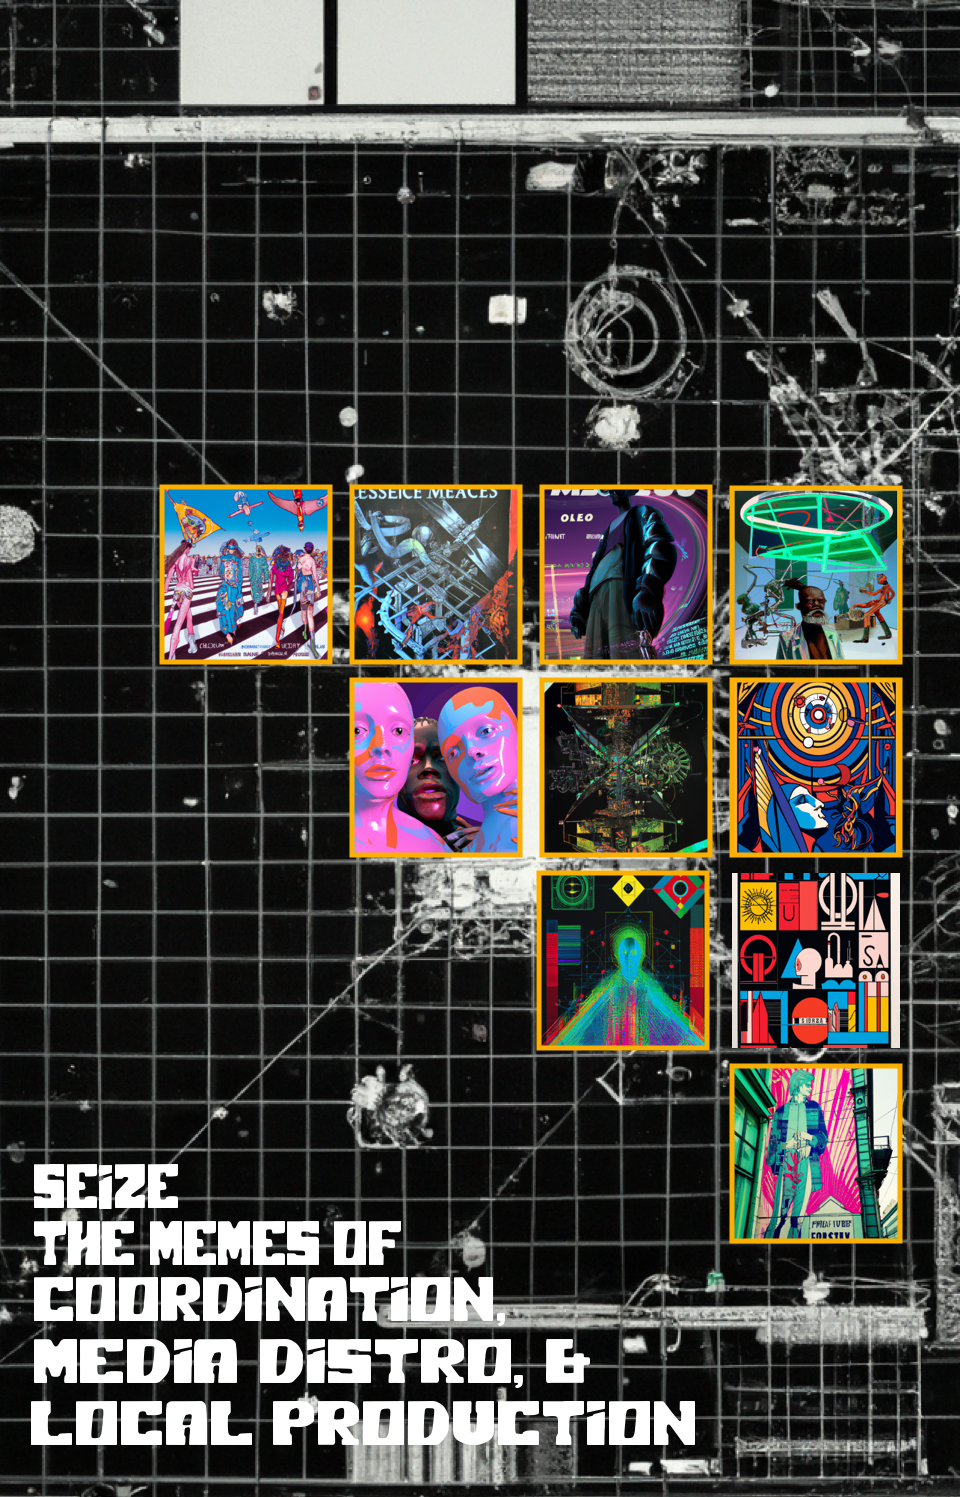
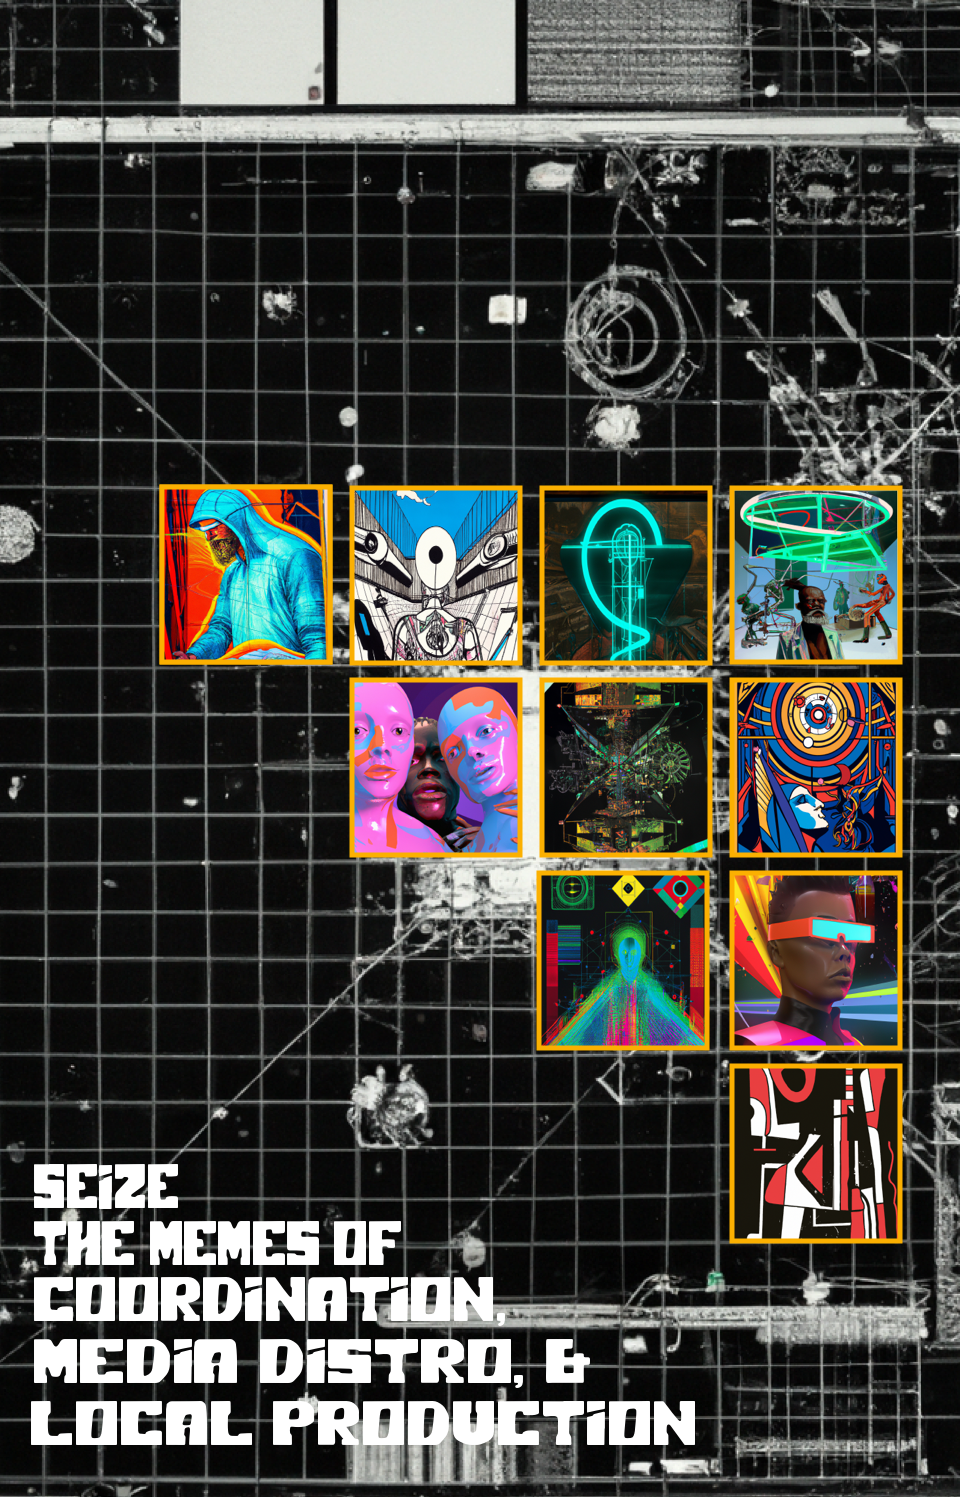
fix changes

Changed region(s): [[0.1562, 0.3073, 0.75, 0.4609], [0.75, 0.5838, 0.9375, 0.8297]]

diff --git a/src/components/magazines/issue-14/Page6768 copy.js b/src/components/magazines/issue-14/Page6768 copy.js
@@ -3,15 +3,15 @@ import Image from 'next/image';
 import { DIGIFIZZY_S3 } from '@constants/urls';
 import styles from './page2930.module.scss';
 
-const Page5960 = () => (
+const Page6768 = () => (
   <div className={styles.wrapper}>
     <div className={styles.imageBackground}>
-      <Image src={`${DIGIFIZZY_S3}/14/images/Artboard 58.png`} width={960} height={1497} />
+      <Image src={`${DIGIFIZZY_S3}/14/images/Artboard 66.png`} width={960} height={1497} />
     </div>
     <div className={styles.imageBackground2}>
-      <Image src={`${DIGIFIZZY_S3}/14/images/Artboard 59.png`} width={960} height={1497} />
+      <Image src={`${DIGIFIZZY_S3}/14/images/Artboard 67.png`} width={960} height={1497} />
     </div>
   </div>
 );
 
-export default Page5960;
+export default Page6768;

diff --git a/src/components/magazines/issue-14/Page4748.js b/src/components/magazines/issue-14/Page4748.js
@@ -6,10 +6,10 @@ import styles from './page2930.module.scss';
 const Page4748 = () => (
   <div className={styles.wrapper}>
     <div className={styles.imageBackground}>
-      <Image src={`${DIGIFIZZY_S3}/14/images/Artboard 47.png`} width={960} height={1497} />
+      <Image src={`${DIGIFIZZY_S3}/14/images/Artboard 45.png`} width={960} height={1497} />
     </div>
     <div className={styles.imageBackground2}>
-      <Image src={`${DIGIFIZZY_S3}/14/images/Artboard 48.png`} width={960} height={1497} />
+      <Image src={`${DIGIFIZZY_S3}/14/images/ Artboard 46.png`} width={960} height={1497} />
     </div>
   </div>
 );

diff --git a/src/components/magazines/issue-14/Page3940.js b/src/components/magazines/issue-14/Page3940.js
@@ -6,10 +6,10 @@ import styles from './page2930.module.scss';
 const Page3940 = () => (
   <div className={styles.wrapper}>
     <div className={styles.imageBackground}>
-      <Image src={`${DIGIFIZZY_S3}/14/images/Artboard 39.png`} width={960} height={1497} />
+      <Image src={`${DIGIFIZZY_S3}/14/images/Artboard 38.png`} width={960} height={1497} />
     </div>
     <div className={styles.imageBackground2}>
-      <Image src={`${DIGIFIZZY_S3}/14/images/Artboard 40.png`} width={960} height={1497} />
+      <Image src={`${DIGIFIZZY_S3}/14/images/Artboard 39.png`} width={960} height={1497} />
     </div>
   </div>
 );

diff --git a/src/components/magazines/issue-14/Page4142.js b/src/components/magazines/issue-14/Page4142.js
@@ -6,10 +6,10 @@ import styles from './page2930.module.scss';
 const Page4142 = () => (
   <div className={styles.wrapper}>
     <div className={styles.imageBackground}>
-      <Image src={`${DIGIFIZZY_S3}/14/images/Artboard 41.png`} width={960} height={1497} />
+      <Image src={`${DIGIFIZZY_S3}/14/images/Artboard 40.png`} width={960} height={1497} />
     </div>
     <div className={styles.imageBackground2}>
-      <Image src={`${DIGIFIZZY_S3}/14/images/Artboard 42.png`} width={960} height={1497} />
+      <Image src={`${DIGIFIZZY_S3}/14/images/Artboard 41.png`} width={960} height={1497} />
     </div>
   </div>
 );

diff --git a/src/components/magazines/issue-14/Page4344.js b/src/components/magazines/issue-14/Page4344.js
@@ -6,10 +6,10 @@ import styles from './page2930.module.scss';
 const Page4344 = () => (
   <div className={styles.wrapper}>
     <div className={styles.imageBackground}>
-      <Image src={`${DIGIFIZZY_S3}/14/images/Artboard 43.png`} width={960} height={1497} />
+      <Image src={`${DIGIFIZZY_S3}/14/images/Artboard 42.png`} width={960} height={1497} />
     </div>
     <div className={styles.imageBackground2}>
-      <Image src={`${DIGIFIZZY_S3}/14/images/Artboard 44.png`} width={960} height={1497} />
+      <Image src={`${DIGIFIZZY_S3}/14/images/Artboard 43.png`} width={960} height={1497} />
     </div>
   </div>
 );

diff --git a/src/components/magazines/issue-14/Page4546.js b/src/components/magazines/issue-14/Page4546.js
@@ -6,10 +6,10 @@ import styles from './page2930.module.scss';
 const Page4546 = () => (
   <div className={styles.wrapper}>
     <div className={styles.imageBackground}>
-      <Image src={`${DIGIFIZZY_S3}/14/images/Artboard 45.png`} width={960} height={1497} />
+      <Image src={`${DIGIFIZZY_S3}/14/images/Artboard 44.png`} width={960} height={1497} />
     </div>
     <div className={styles.imageBackground2}>
-      <Image src={`${DIGIFIZZY_S3}/14/images/Artboard 46.png`} width={960} height={1497} />
+      <Image src={`${DIGIFIZZY_S3}/14/images/Artboard 47.png`} width={960} height={1497} />
     </div>
   </div>
 );

diff --git a/src/components/magazines/issue-14/Page4950.js b/src/components/magazines/issue-14/Page4950.js
@@ -6,10 +6,10 @@ import styles from './page2930.module.scss';
 const Page4950 = () => (
   <div className={styles.wrapper}>
     <div className={styles.imageBackground}>
-      <Image src={`${DIGIFIZZY_S3}/14/images/Artboard 49.png`} width={960} height={1497} />
+      <Image src={`${DIGIFIZZY_S3}/14/images/Artboard 48.png`} width={960} height={1497} />
     </div>
     <div className={styles.imageBackground2}>
-      <Image src={`${DIGIFIZZY_S3}/14/images/Artboard 50.png`} width={960} height={1497} />
+      <Image src={`${DIGIFIZZY_S3}/14/images/Artboard 49.png`} width={960} height={1497} />
     </div>
   </div>
 );

diff --git a/src/components/magazines/issue-14/Page5152.js b/src/components/magazines/issue-14/Page5152.js
@@ -6,10 +6,10 @@ import styles from './page2930.module.scss';
 const Page5152 = () => (
   <div className={styles.wrapper}>
     <div className={styles.imageBackground}>
-      <Image src={`${DIGIFIZZY_S3}/14/images/Artboard 51.png`} width={960} height={1497} />
+      <Image src={`${DIGIFIZZY_S3}/14/images/Artboard 50.png`} width={960} height={1497} />
     </div>
     <div className={styles.imageBackground2}>
-      <Image src={`${DIGIFIZZY_S3}/14/images/Artboard 52.png`} width={960} height={1497} />
+      <Image src={`${DIGIFIZZY_S3}/14/images/Artboard 51.png`} width={960} height={1497} />
     </div>
   </div>
 );

diff --git a/src/components/magazines/issue-14/Page5354.js b/src/components/magazines/issue-14/Page5354.js
@@ -6,10 +6,10 @@ import styles from './page2930.module.scss';
 const Page5354 = () => (
   <div className={styles.wrapper}>
     <div className={styles.imageBackground}>
-      <Image src={`${DIGIFIZZY_S3}/14/images/Artboard 53.png`} width={960} height={1497} />
+      <Image src={`${DIGIFIZZY_S3}/14/images/Artboard 52.png`} width={960} height={1497} />
     </div>
     <div className={styles.imageBackground2}>
-      <Image src={`${DIGIFIZZY_S3}/14/images/Artboard 54.png`} width={960} height={1497} />
+      <Image src={`${DIGIFIZZY_S3}/14/images/Artboard 53.png`} width={960} height={1497} />
     </div>
   </div>
 );

diff --git a/src/components/magazines/issue-14/Page5556.js b/src/components/magazines/issue-14/Page5556.js
@@ -6,10 +6,10 @@ import styles from './page2930.module.scss';
 const Page5556 = () => (
   <div className={styles.wrapper}>
     <div className={styles.imageBackground}>
-      <Image src={`${DIGIFIZZY_S3}/14/images/Artboard 55.png`} width={960} height={1497} />
+      <Image src={`${DIGIFIZZY_S3}/14/images/Artboard 54.png`} width={960} height={1497} />
     </div>
     <div className={styles.imageBackground2}>
-      <Image src={`${DIGIFIZZY_S3}/14/images/Artboard 56.png`} width={960} height={1497} />
+      <Image src={`${DIGIFIZZY_S3}/14/images/Artboard 55.png`} width={960} height={1497} />
     </div>
   </div>
 );

diff --git a/src/components/magazines/issue-14/Page5758.js b/src/components/magazines/issue-14/Page5758.js
@@ -6,10 +6,10 @@ import styles from './page2930.module.scss';
 const Page5758 = () => (
   <div className={styles.wrapper}>
     <div className={styles.imageBackground}>
-      <Image src={`${DIGIFIZZY_S3}/14/images/Artboard 57.png`} width={960} height={1497} />
+      <Image src={`${DIGIFIZZY_S3}/14/images/Artboard 56.png`} width={960} height={1497} />
     </div>
     <div className={styles.imageBackground2}>
-      <Image src={`${DIGIFIZZY_S3}/14/images/Artboard 58.png`} width={960} height={1497} />
+      <Image src={`${DIGIFIZZY_S3}/14/images/Artboard 57.png`} width={960} height={1497} />
     </div>
   </div>
 );

diff --git a/src/components/magazines/issue-14/Page6162.js b/src/components/magazines/issue-14/Page6162.js
@@ -6,10 +6,10 @@ import styles from './page2930.module.scss';
 const Page6162 = () => (
   <div className={styles.wrapper}>
     <div className={styles.imageBackground}>
-      <Image src={`${DIGIFIZZY_S3}/14/images/Artboard 61.png`} width={960} height={1497} />
+      <Image src={`${DIGIFIZZY_S3}/14/images/Artboard 60.png`} width={960} height={1497} />
     </div>
     <div className={styles.imageBackground2}>
-      <Image src={`${DIGIFIZZY_S3}/14/images/Artboard 62.png`} width={960} height={1497} />
+      <Image src={`${DIGIFIZZY_S3}/14/images/Artboard 61.png`} width={960} height={1497} />
     </div>
   </div>
 );
